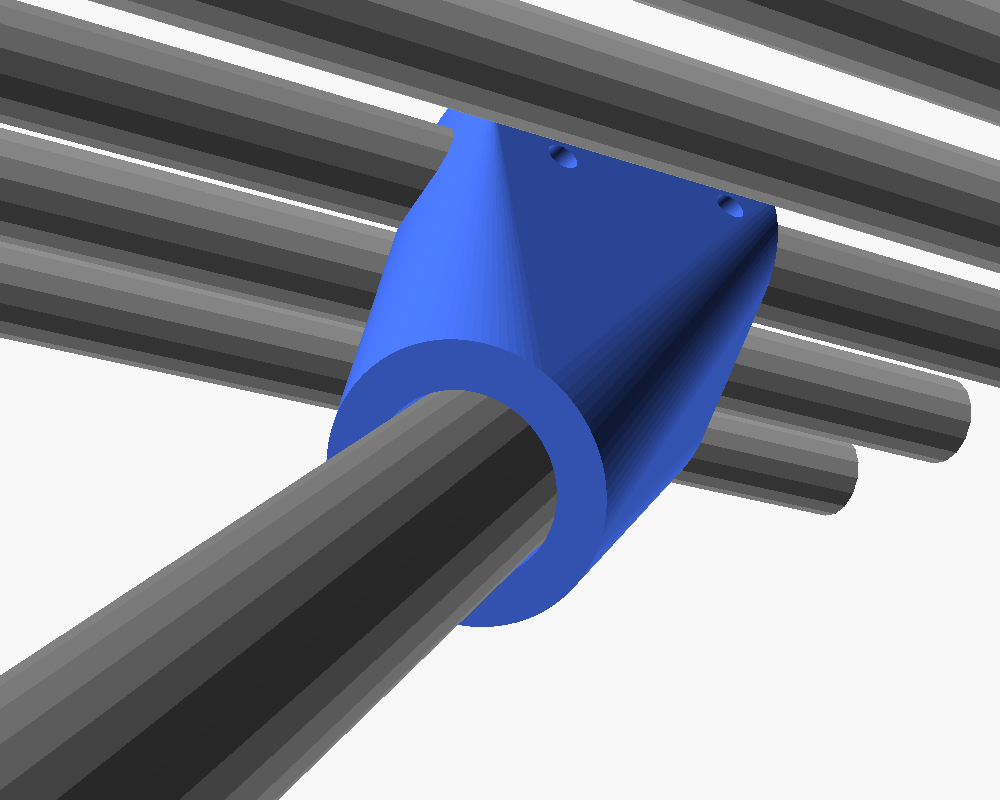
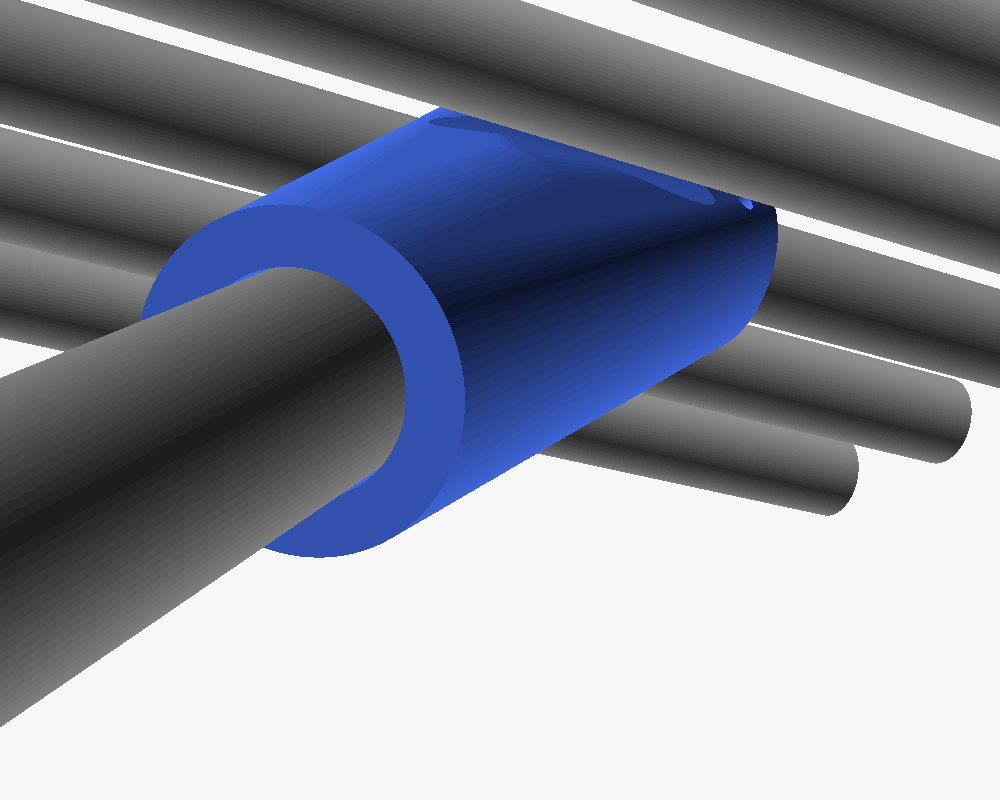
Strengthen links, align leg axes with slats, widen shoes, add fit check
- Yellow/blue links: thicker plates (5 mm), 19 mm lobes, wider waist,
  deeper socket, thicker cap and channel wall
- Leg axis now passes through the slat axis so the leg does not twist it
- Mount clears neighbouring slats
- Shoes get a 70 mm outward toe for a wider base
- check_fit.py computes tube lengths, heights, leg clearance, stability,
  strength and rolled-up size
- README: full parts list, assembly and roll-up notes

Claude-Session: https://claude.ai/code/session_011cUnhzAFGP7E1nGHqXwy9v

diff --git a/check_fit.py b/check_fit.py
@@ -1,0 +1,188 @@
+#!/usr/bin/env python3
+"""Проверка на размерите на масата: дали всичко пасва, здравина и навиване.
+
+Стойностите са копирани от chain_link.scad и legs.scad - ако ги смениш там,
+смени ги и тук. Пуска се с: python3 check_fit.py
+"""
+import math
+
+# ---------------- материали (на склад) ----------------
+STOCK_THIN = (10, 700, 29)    # Ø, дължина, брой
+STOCK_THICK = (15, 650, 4)
+
+# ---------------- плот / верига (chain_link.scad) ----------------
+W, D_TOP, H = 700, 500, 415     # плот X, Y, височина
+slat_d, pitch, n_slats = 10, 20, 26
+lobe_d = 19                     # ухо на звената
+t, spacer, slot_clr = 5, 0.4, 0.3
+sock, cap_t = 6, 2
+y_top, y_bot = -10, -24.7       # ботуш спрямо оста на лайсната (отрицателно = под плота)
+ext, stub, pin_d, fork_extra = 16, 6, 4, 3
+lock_d = 10
+
+# ---------------- крака (legs.scad) ----------------
+leg_d, leg_len = 15, 650
+shoe_z = 12
+shoe_toe, shoe_pad_d = 70, 44
+mount_drop = 20
+hub_r, hub_h = 50, 44
+mount_reach = 55                # най-далечната точка на скобата от оста на лайсната
+
+# ---------------- приблизителни маси ----------------
+# Тръбите: приемам алуминий с 1 мм стена (тънки) и 1.5 мм (дебели).
+ALU = 2.7e-3                    # g/mm^3
+def tube_mass(d, wall, length):
+    return math.pi / 4 * (d**2 - (d - 2 * wall)**2) * length * ALU / 1000  # kg
+
+ok_all = True
+def check(cond, text):
+    global ok_all
+    ok_all &= cond
+    print(("  OK   " if cond else "  !!   ") + text)
+
+print("=" * 70)
+print("1. ТРЪБИ - дължини и бройки")
+print("=" * 70)
+slat_len = W
+x_pin = -lobe_d / 2 - ext / 2
+lock_holes = (n_slats - 1) * pitch - 2 * x_pin
+lock_len = lock_holes + 2 * stub
+thin_needed = [("лайсни", slat_len, n_slats), ("заключващи тръби", lock_len, 2)]
+thick_needed = [("крака", leg_len, 4)]
+n_thin = sum(n for _, _, n in thin_needed)
+for name, L, n in thin_needed:
+    check(L <= STOCK_THIN[1], f"{name}: {n} x Ø{STOCK_THIN[0]} x {L:.0f} мм (от {STOCK_THIN[1]} мм, остатък {STOCK_THIN[1] - L:.0f})")
+check(n_thin <= STOCK_THIN[2], f"тънки: трябват {n_thin}, имаш {STOCK_THIN[2]} (резерва {STOCK_THIN[2] - n_thin})")
+for name, L, n in thick_needed:
+    check(L <= STOCK_THICK[1] and n <= STOCK_THICK[2], f"{name}: {n} x Ø{STOCK_THICK[0]} x {L} мм (от {STOCK_THICK[1]} мм)")
+print(f"       заключващи тръби: дупки Ø{pin_d} на {lock_holes:.0f} мм център-център, на {stub} мм от краищата")
+
+print()
+print("=" * 70)
+print("2. ВИСОЧИНИ И КРАКА")
+print("=" * 70)
+slat_z = H - slat_d / 2
+leg_top_z = slat_z - mount_drop
+alpha = math.asin((leg_top_z - shoe_z) / leg_len)
+cross_z = (leg_top_z + shoe_z) / 2
+phi0 = math.atan2(D_TOP / 2, W / 2)
+hub_e = pitch / math.cos(phi0)
+half_h = leg_len / 2 * math.cos(alpha)
+print(f"       ъгъл на краката {math.degrees(alpha):.1f}°, кръстосване на {cross_z:.0f} мм (средата е {H/2:.0f})")
+print(f"       изместване във вложката hub_e = {hub_e:.1f} мм")
+
+def leg(phi):
+    u = (math.cos(phi), math.sin(phi))
+    n = (-math.sin(phi), math.cos(phi))
+    d = (math.cos(alpha) * u[0], math.cos(alpha) * u[1], math.sin(alpha))
+    p0 = (hub_e * n[0], hub_e * n[1], cross_z)
+    return p0, d
+
+phis = [phi0, math.pi - phi0, math.pi + phi0, -phi0]
+legs = [leg(p) for p in phis]
+
+def pt(p0, d, s):
+    return tuple(p0[i] + s * d[i] for i in range(3))
+
+def seg_dist(a, b, n=2000):
+    best = 1e9
+    for i in range(n + 1):
+        s = -leg_len / 2 + leg_len * i / n
+        q = pt(*a, s)
+        p0, d = b
+        tt = max(-leg_len / 2, min(leg_len / 2, sum((q[k] - p0[k]) * d[k] for k in range(3))))
+        r = pt(p0, d, tt)
+        best = min(best, math.dist(q, r))
+    return best
+
+dmin = min(seg_dist(legs[i], legs[j]) for i in range(4) for j in range(i + 1, 4))
+check(dmin - leg_d >= 2, f"краката се разминават във вложката: най-малко {dmin - leg_d:.1f} мм между тях")
+
+k_top = mount_drop / math.sin(alpha)
+for i, (p0, d) in enumerate(legs):
+    top = pt(p0, d, leg_len / 2)
+    at_slat = pt(p0, d, leg_len / 2 + k_top)
+    y_s = round((at_slat[1] + (n_slats - 1) * pitch / 2) / pitch) * pitch - (n_slats - 1) * pitch / 2
+    idx = round((y_s + (n_slats - 1) * pitch / 2) / pitch) + 1
+    check(abs(at_slat[1] - y_s) < 1, f"крак {i+1}: оста минава през лайсна №{idx} (y={y_s:.0f}) при x={at_slat[0]:+.0f}, разминаване {at_slat[1]-y_s:+.2f} мм")
+    check(top[2] + leg_d / 2 < slat_z - slat_d / 2, f"крак {i+1}: горният край не опира в лайсните ({slat_z - slat_d/2 - top[2] - leg_d/2:.1f} мм хлабина)")
+
+def foot(p0, d):
+    f = pt(p0, d, -leg_len / 2)
+    u = (d[0] / math.cos(alpha), d[1] / math.cos(alpha))
+    reach = shoe_toe + shoe_pad_d * 0.7 / 2      # петата на обувчицата навън
+    return (f[0] - reach * u[0], f[1] - reach * u[1])
+feet = [foot(p0, d) for p0, d in legs]
+xs = sorted(abs(f[0]) for f in feet)
+ys = sorted(abs(f[1]) for f in feet)
+print(f"       опорни точки (петите на обувчиците): |x| = {xs[0]:.0f}..{xs[-1]:.0f}, |y| = {ys[0]:.0f}..{ys[-1]:.0f} мм от центъра")
+
+print()
+print("=" * 70)
+print("3. СТАБИЛНОСТ")
+print("=" * 70)
+m_slats = n_slats * tube_mass(10, 1, slat_len)
+m_lock = 2 * tube_mass(10, 1, lock_len)
+m_legs = 4 * tube_mass(15, 1.5, leg_len)
+m_print = 0.75                  # всички печатни части, приблизително
+m_total = m_slats + m_lock + m_legs + m_print
+print(f"       маса (алуминиеви тръби + PETG): ~{m_total:.1f} кг")
+# опорният многоъгълник е четириъгълникът на стъпалата; най-близкият ръб по y и по x
+sup_y = min(abs(f[1]) for f in feet)   # консервативно
+sup_x = min(abs(f[0]) for f in feet)
+over_y = D_TOP / 2 - sup_y
+over_x = W / 2 - sup_x
+for name, sup, over in [("дългата страна", sup_y, over_y), ("късата страна", sup_x, over_x)]:
+    p_tip = m_total * sup / over
+    print(f"       натиск по ръба на {name}: стъпалата са на {sup:.0f} мм, ръбът стърчи {over:.0f} мм")
+    print(f"         -> масата се накланя при ~{p_tip:.1f} кг натиск върху самия ръб (без товар отгоре)")
+    p_tip10 = (m_total + 10) * sup / over
+    print(f"         -> с 10 кг товар в средата: при ~{p_tip10:.1f} кг")
+
+print()
+print("=" * 70)
+print("4. ЗДРАВИНА (приблизително, алуминий 6063 ~145 МПа, PETG ~45 МПа)")
+print("=" * 70)
+I = math.pi / 64 * (10**4 - 8**4)
+Wb = I / 5
+P_alu = 4 * 145 * Wb / slat_len / 9.81
+P_st = 4 * 235 * Wb / slat_len / 9.81
+print(f"       една лайсна Ø10x1, отвор 700 мм, точков товар в средата:")
+print(f"         алуминий: до ~{P_alu:.1f} кг, стомана: до ~{P_st:.1f} кг (лайсните не си делят точков товар)")
+check(10 / n_slats < P_alu, f"10 кг разпределени по целия плот: {10/n_slats:.2f} кг на лайсна")
+chain_load = (m_slats + 10) / 2 * 9.81       # на всеки край на плота, Н
+cant = W / 2 - 252                            # най-дълго конзолно рамо от скоба до веригата (по-късото е 98)
+cant = max(W / 2 - 223.6, W / 2 - 252.2)
+M = chain_load / 2 * cant
+check(M / Wb < 145, f"лайсна със скоба, конзола {cant:.0f} мм до веригата: {M/Wb:.0f} МПа (алуминий 145)")
+# звено: натискът в стената над канала
+M_chain = chain_load / 500 * 340**2 / 8      # Н*мм, приблизително
+F_wall = M_chain / (abs(y_top) + 7.5) / 4     # двойка сили, поделена на ~4 звена
+A_wall = 2.4 * (pitch + lobe_d)
+check(F_wall / A_wall < 45 / 3, f"стена над канала в звеното: ~{F_wall:.0f} Н -> {F_wall/A_wall:.1f} МПа (PETG 45, х3 запас)")
+
+print()
+print("=" * 70)
+print("5. НАВИВАНЕ (горната повърхност навътре)")
+print("=" * 70)
+seam = 2 * (lobe_d / 2 + ext) + 1        # крайните звена с вилките се срещат на шева
+C = (n_slats - 1) * pitch + seam
+D_axes = C / math.pi
+print(f"       по осите на лайсните: Ø{D_axes:.0f} мм ({360/n_slats:.1f}° на всяка става)")
+clear_end = D_axes - lobe_d - 1
+clear_mid = D_axes - slat_d
+print(f"       свободно вътре: Ø{clear_end:.0f} мм при звената, Ø{clear_mid:.0f} мм в средата")
+outer_end = D_axes + 2 * (abs(y_bot) + fork_extra)
+outer_mount = D_axes + 2 * mount_reach
+print(f"       отвън: Ø~{outer_end:.0f} мм при ботушите, до ~{outer_mount + 0:.0f} мм при скобите на краката")
+print(f"       дължина: ~{slat_len + 2*cap_t:.0f} мм")
+check(2 * hub_r < clear_end, f"вложката Ø{2*hub_r} влиза (свободно Ø{clear_end:.0f})")
+check(leg_len < slat_len, f"краката {leg_len} мм влизат по дължина ({slat_len} мм)")
+check(lock_len < slat_len, f"заключващите тръби {lock_len:.0f} мм влизат по дължина")
+# напречно сечение: вложката + 4 крака + 2 тръби + обувчици
+R = clear_end / 2
+ring = R - hub_r                         # ако вложката е опряна в стената
+check(2 * ring >= leg_d + 1, f"до вложката остава полумесец {2*ring:.0f} мм за краката (Ø{leg_d})")
+
+print()
+print("ВСИЧКО Е НАРЕД" if ok_all else "ИМА ПРОБЛЕМИ (виж !!)")

diff --git a/README.md b/README.md
@@ -1,4 +1,4 @@
-# Размери
+# Сгъваема (навиваща се) маса
 
 ## Маса
 
@@ -6,15 +6,68 @@
 |---|---|
 | Плот | 500 × 700 мм |
 | Височина | 415 мм |
-| Товар | ~10 кг |
+| Товар | ~10 кг (разпределени) |
+| Маса | ~2.7 кг (с алуминиеви тръби) |
+| Навита | Ø~230 мм (Ø~290 при скобите на краката) × ~704 мм, краката и всичко вътре |
 
 ## Тръби
 
-| Част | Размер | Бр. |
-|---|---|---|
-| Лайсни (плот) | Ø10 × 700 мм, неотрязани | 26 |
-| Заключващи пръти (рамо) | Ø10 × 546 мм, 2 дупки Ø4 на 534 мм една от друга | 2 |
-| Разпънка между пивотите | Ø10 × 645 мм | 1 |
-| Крака | Ø15 × 650 мм | 4 |
+| Част | Размер | Бр. | Рязане |
+|---|---|---|---|
+| Лайсни (плот) | Ø10 × 700 мм | 26 | не се режат |
+| Заключващи тръби (рамо) | Ø10 × 547 мм, 2 дупки Ø4 на 535 мм една от друга (на 6 мм от краищата) | 2 | от 700, остатък 153 |
+| Крака | Ø15 × 650 мм | 4 | не се режат |
 
-Общо тънки: 29. Дебели: 4.
+Тънки: трябват 28 от 29 (1 резерва). Дебели: 4 от 4.
+Разпънката между пивотите от стария дизайн вече не трябва.
+
+## Печат (PETG)
+
+| Файл | Част | Бр. | Как се печата |
+|---|---|---|---|
+| `chain_link.scad` | `outer` – жълто звено | 22 | изправено на тесния край |
+| `chain_link.scad` | `inner` – синьо звено | 24 | плоско |
+| `chain_link.scad` | `end` – крайно звено с вилка | 2 | изправено на края с вилката |
+| `chain_link.scad` | `end_r` – огледалното | 2 | изправено на края с вилката |
+| `legs.scad` | `shoe` – обувчица | 4 | на дъното |
+| `legs.scad` | `hub` – вложка в центъра | 1 | на плоската страна |
+| `legs.scad` | `mount` – скоба на лайсна | 2 | на устието на гнездото |
+| `legs.scad` | `mount_r` – огледалната | 2 | на устието на гнездото |
+
+Без подпори. 4 стени, 40% запълване, слой 0.2 мм.
+Дребни части: 2 пина Ø4 (щифт или болт M4), 8 винта M3 (самонарезни) за скобите.
+
+## Сглобяване
+
+1. Сините звена се пъхат в процепите на жълтите, после лайсната се вкарва
+   отвътре през жълтото и синьото до дъното на гнездото.
+2. Скобите `mount` се надяват на лайсни №4, 6, 21 и 23 (броено от 1 до 26),
+   преди лайсните да влязат във веригата, и се затягат с M3.
+3. Заключващата тръба се закача с пин на `end` и се щраква в каналите като цип.
+   Вторият пин в `end_r` я заключва.
+4. Краката минават през вложката, горе влизат в скобите, долу в обувчиците.
+
+## Навиване
+
+Плотът се навива с горната повърхност навътре (надолу го спират ботушите на
+звената). Преди навиване се вадят заключващите тръби (двата пина), краката,
+вложката и обувчиците. Те влизат вътре в рулото:
+
+- свободно вътре: Ø156 мм при звената, Ø166 мм в средата, дължина ~700 мм;
+- вложката Ø100 + 4 крака Ø15 × 650 + 2 тръби × 547 + 4 обувчици – влизат;
+- скобите на краката остават на лайсните, отвън.
+
+## Проверка
+
+`python3 check_fit.py` пресмята дължините, височините, разминаването на
+краката, стабилността, натоварването и навиването. Важните резултати:
+
+- Ъгъл на краката 35.6°, кръстосване на 201 мм. Краката се разминават във
+  вложката с 3.9 мм.
+- Продължението на оста на всеки крак минава точно през оста на лайсната,
+  на която е скобата, така кракът не усуква лайсната.
+- Обувчиците имат „пета“ 70 мм навън. С нея масата се накланя при ~7 кг
+  натиск върху самия ръб на дългата страна (без нея беше ~3 кг).
+- Една лайсна Ø10×1 мм от алуминий носи до ~5 кг **точков** товар в
+  средата (стомана ~8 кг). Лайсните не си делят точков товар, но 10 кг
+  разпределени по целия плот са само ~0.4 кг на лайсна.
